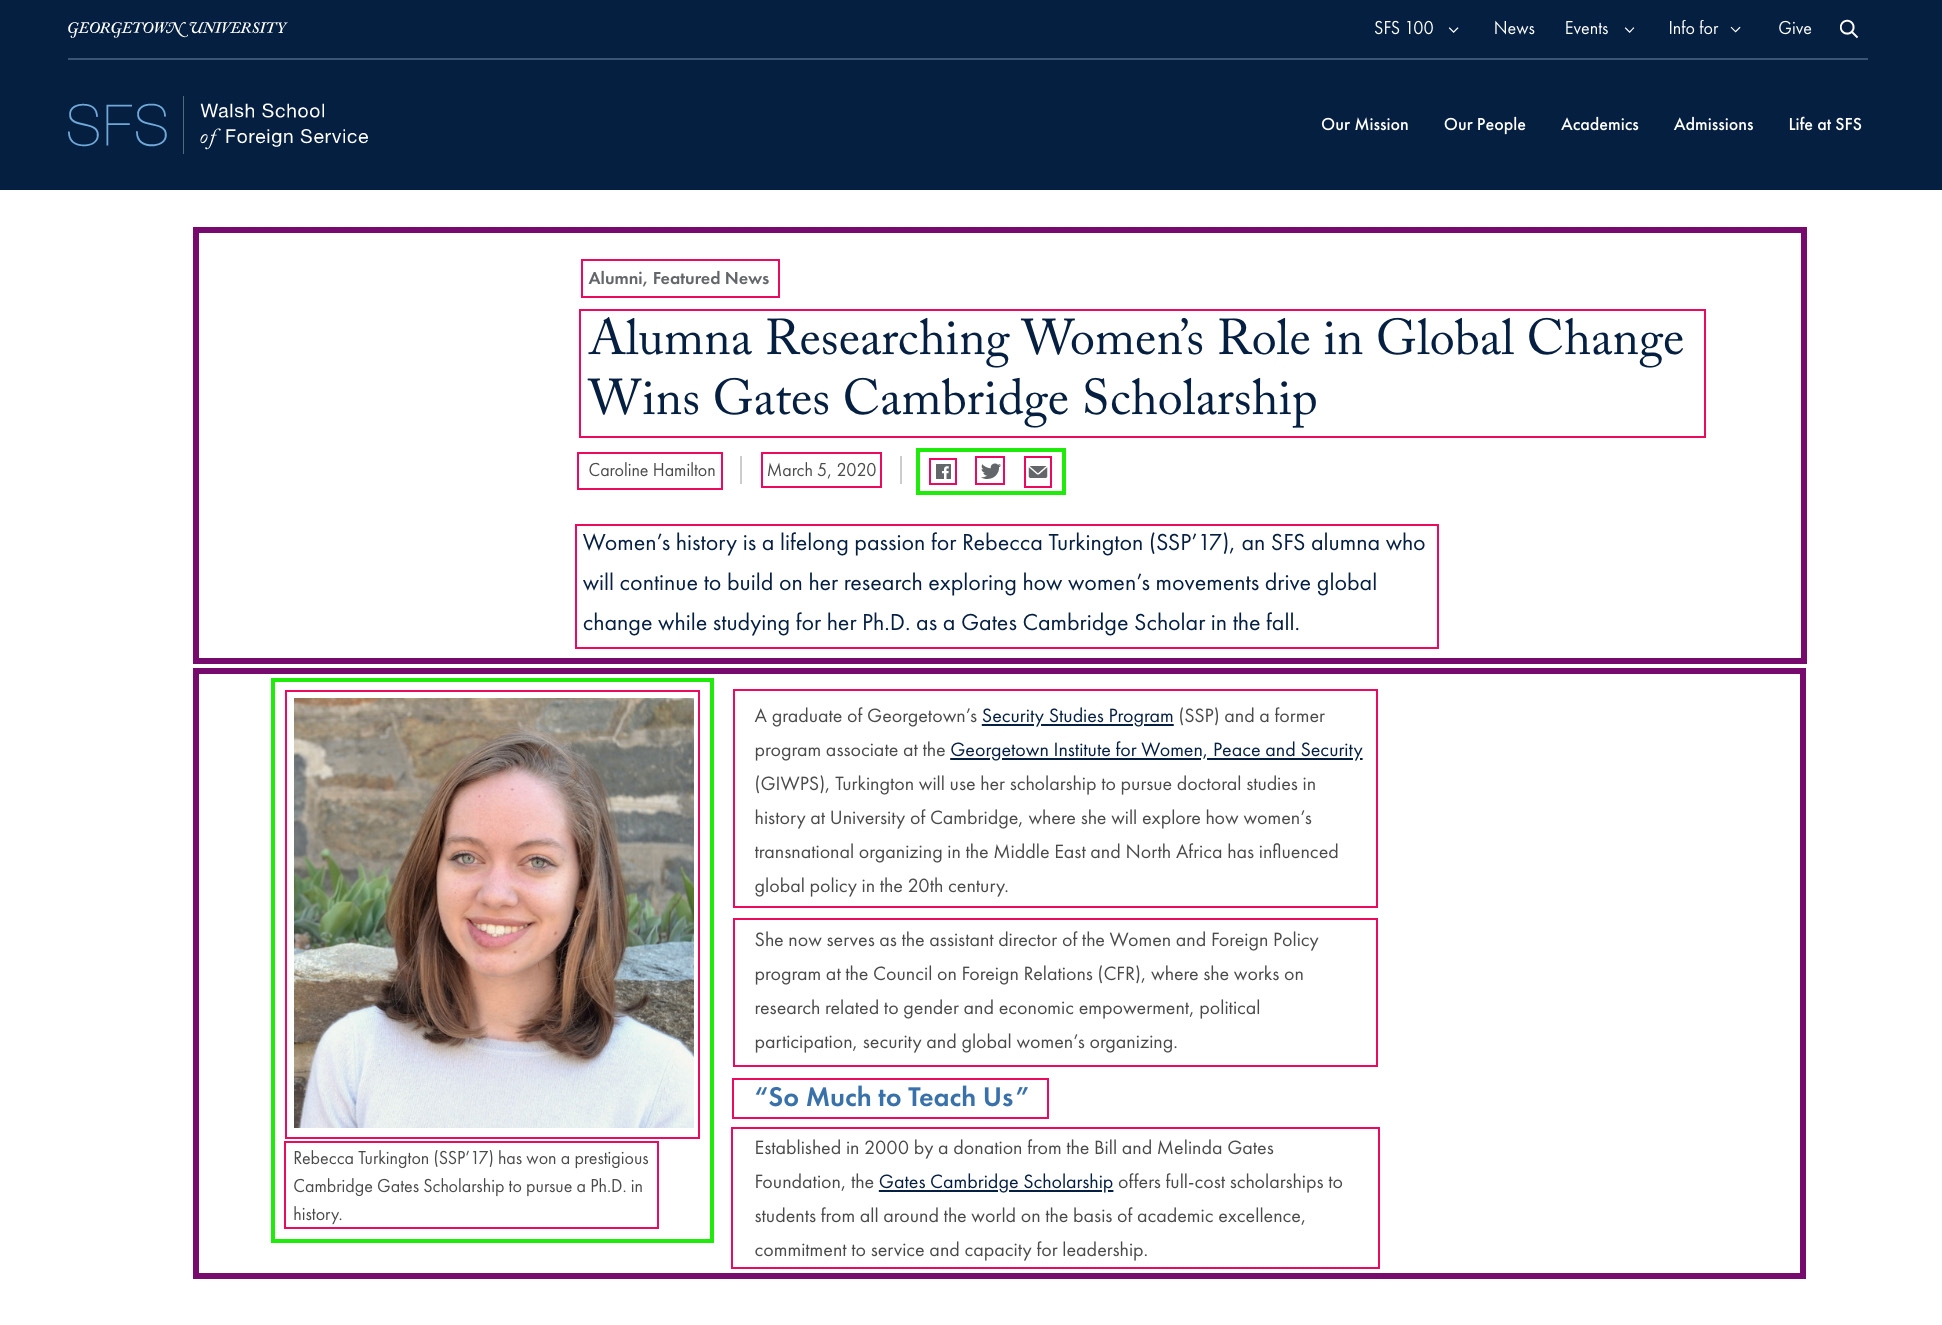
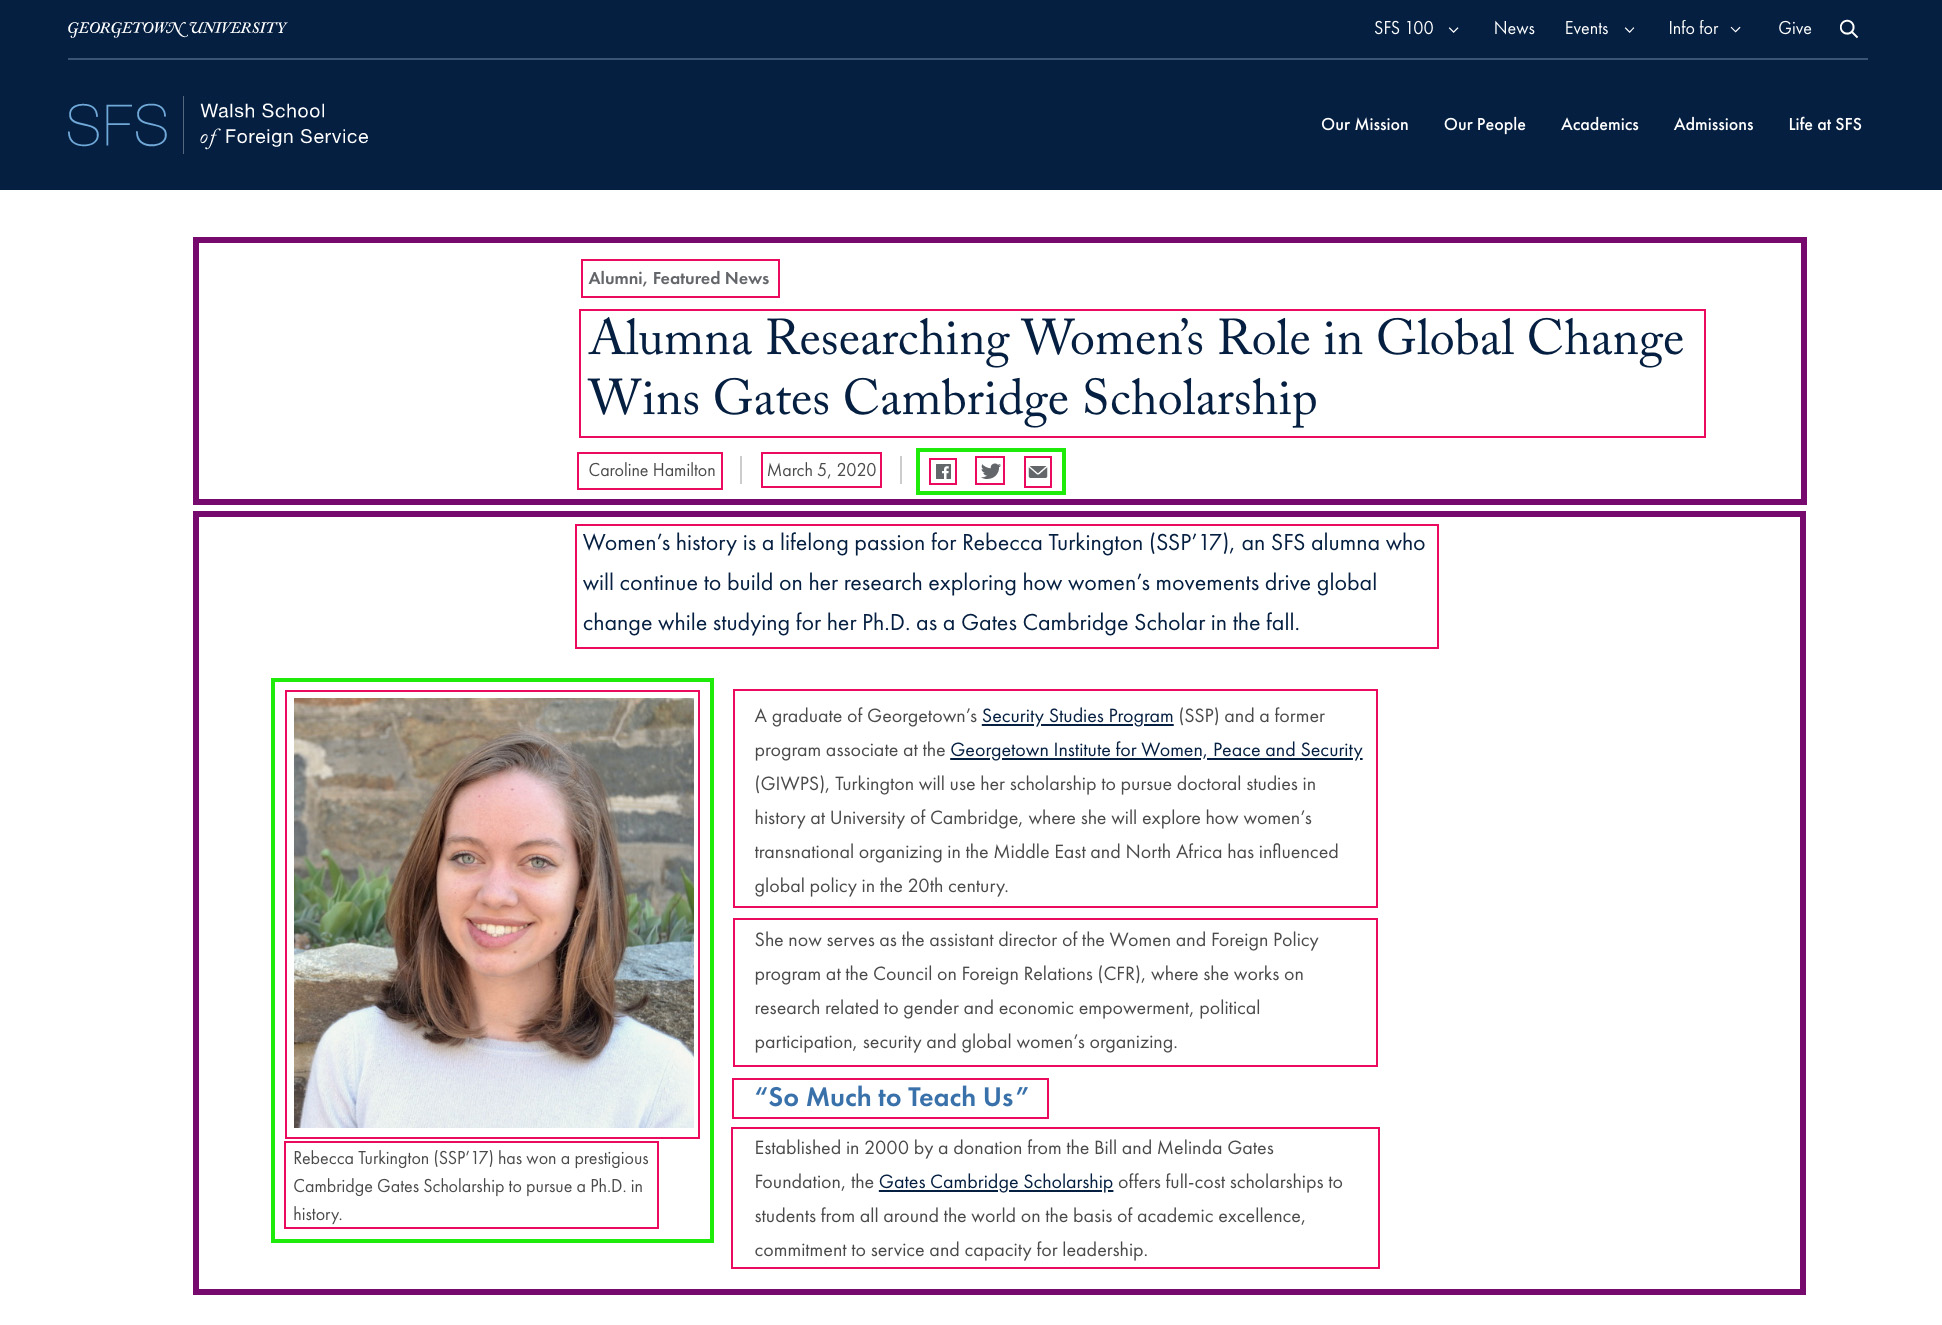
Adding aria labels to style guide talks; fixing the organisms screenshot

diff --git a/style-guide/slides.md b/style-guide/slides.md
@@ -2,7 +2,7 @@
 
 ---
 
-<section class="full-screen-img" data-background-image="images/style-guide-example-screenshot.png" data-background-size="contain" data-background-color="#fff"></section>
+<section class="full-screen-img" data-background-image="images/style-guide-example-screenshot.png" data-background-size="contain" data-background-color="#fff" aria-label="Screenshot of an article page on SFS."></section>
 
 ---
 
@@ -12,7 +12,7 @@ Basic components that can not be further broken down into a smaller functional c
 
 ---
 
-<section class="full-screen-img" data-background-image="images/style-guide-atoms.jpg" data-background-size="contain" data-background-color="#fff"></section>
+<section class="full-screen-img" data-background-image="images/style-guide-atoms.jpg" data-background-size="contain" data-background-color="#fff" aria-label="Screenshot of an article page on SFS, with all of the atoms, such as paragraphs, headings, and images, outlined."></section>
 
 ---
 
@@ -22,7 +22,7 @@ Combinations of atoms.
 
 ---
 
-<section class="full-screen-img" data-background-image="images/style-guide-molecules.jpg" data-background-size="contain" data-background-color="#fff"></section>
+<section class="full-screen-img" data-background-image="images/style-guide-molecules.jpg" data-background-size="contain" data-background-color="#fff" aria-label="Screenshot of an article page on SFS, with all of the molecules, such as figures, outlined. Comginations of atoms make molecules."></section>
 
 ---
 
@@ -32,7 +32,7 @@ Combinations of molecules (and atoms).
 
 ---
 
-<section class="full-screen-img" data-background-image="images/style-guide-organisms.jpg" data-background-size="contain" data-background-color="#fff"></section>
+<section class="full-screen-img" data-background-image="images/style-guide-organisms.jpg" data-background-size="contain" data-background-color="#fff" aria-label="Screenshot of an article page on SFS, with all of the organisms, such as the article header and article body, outlined. Combinations of molecules make organisms."></section>
 
 ---
 
@@ -42,7 +42,7 @@ Combinations of organisms (and molecules and atoms).
 
 ---
 
-<section class="full-screen-img" data-background-image="images/style-guide-example-screenshot.png" data-background-size="contain" data-background-color="#fff"></section>
+<section class="full-screen-img" data-background-image="images/style-guide-example-screenshot.png" data-background-size="contain" data-background-color="#fff" aria-label="Back to the screenshot of an article page on SFS. The combination of organisms make the template!"></section>
 
 ---
 
